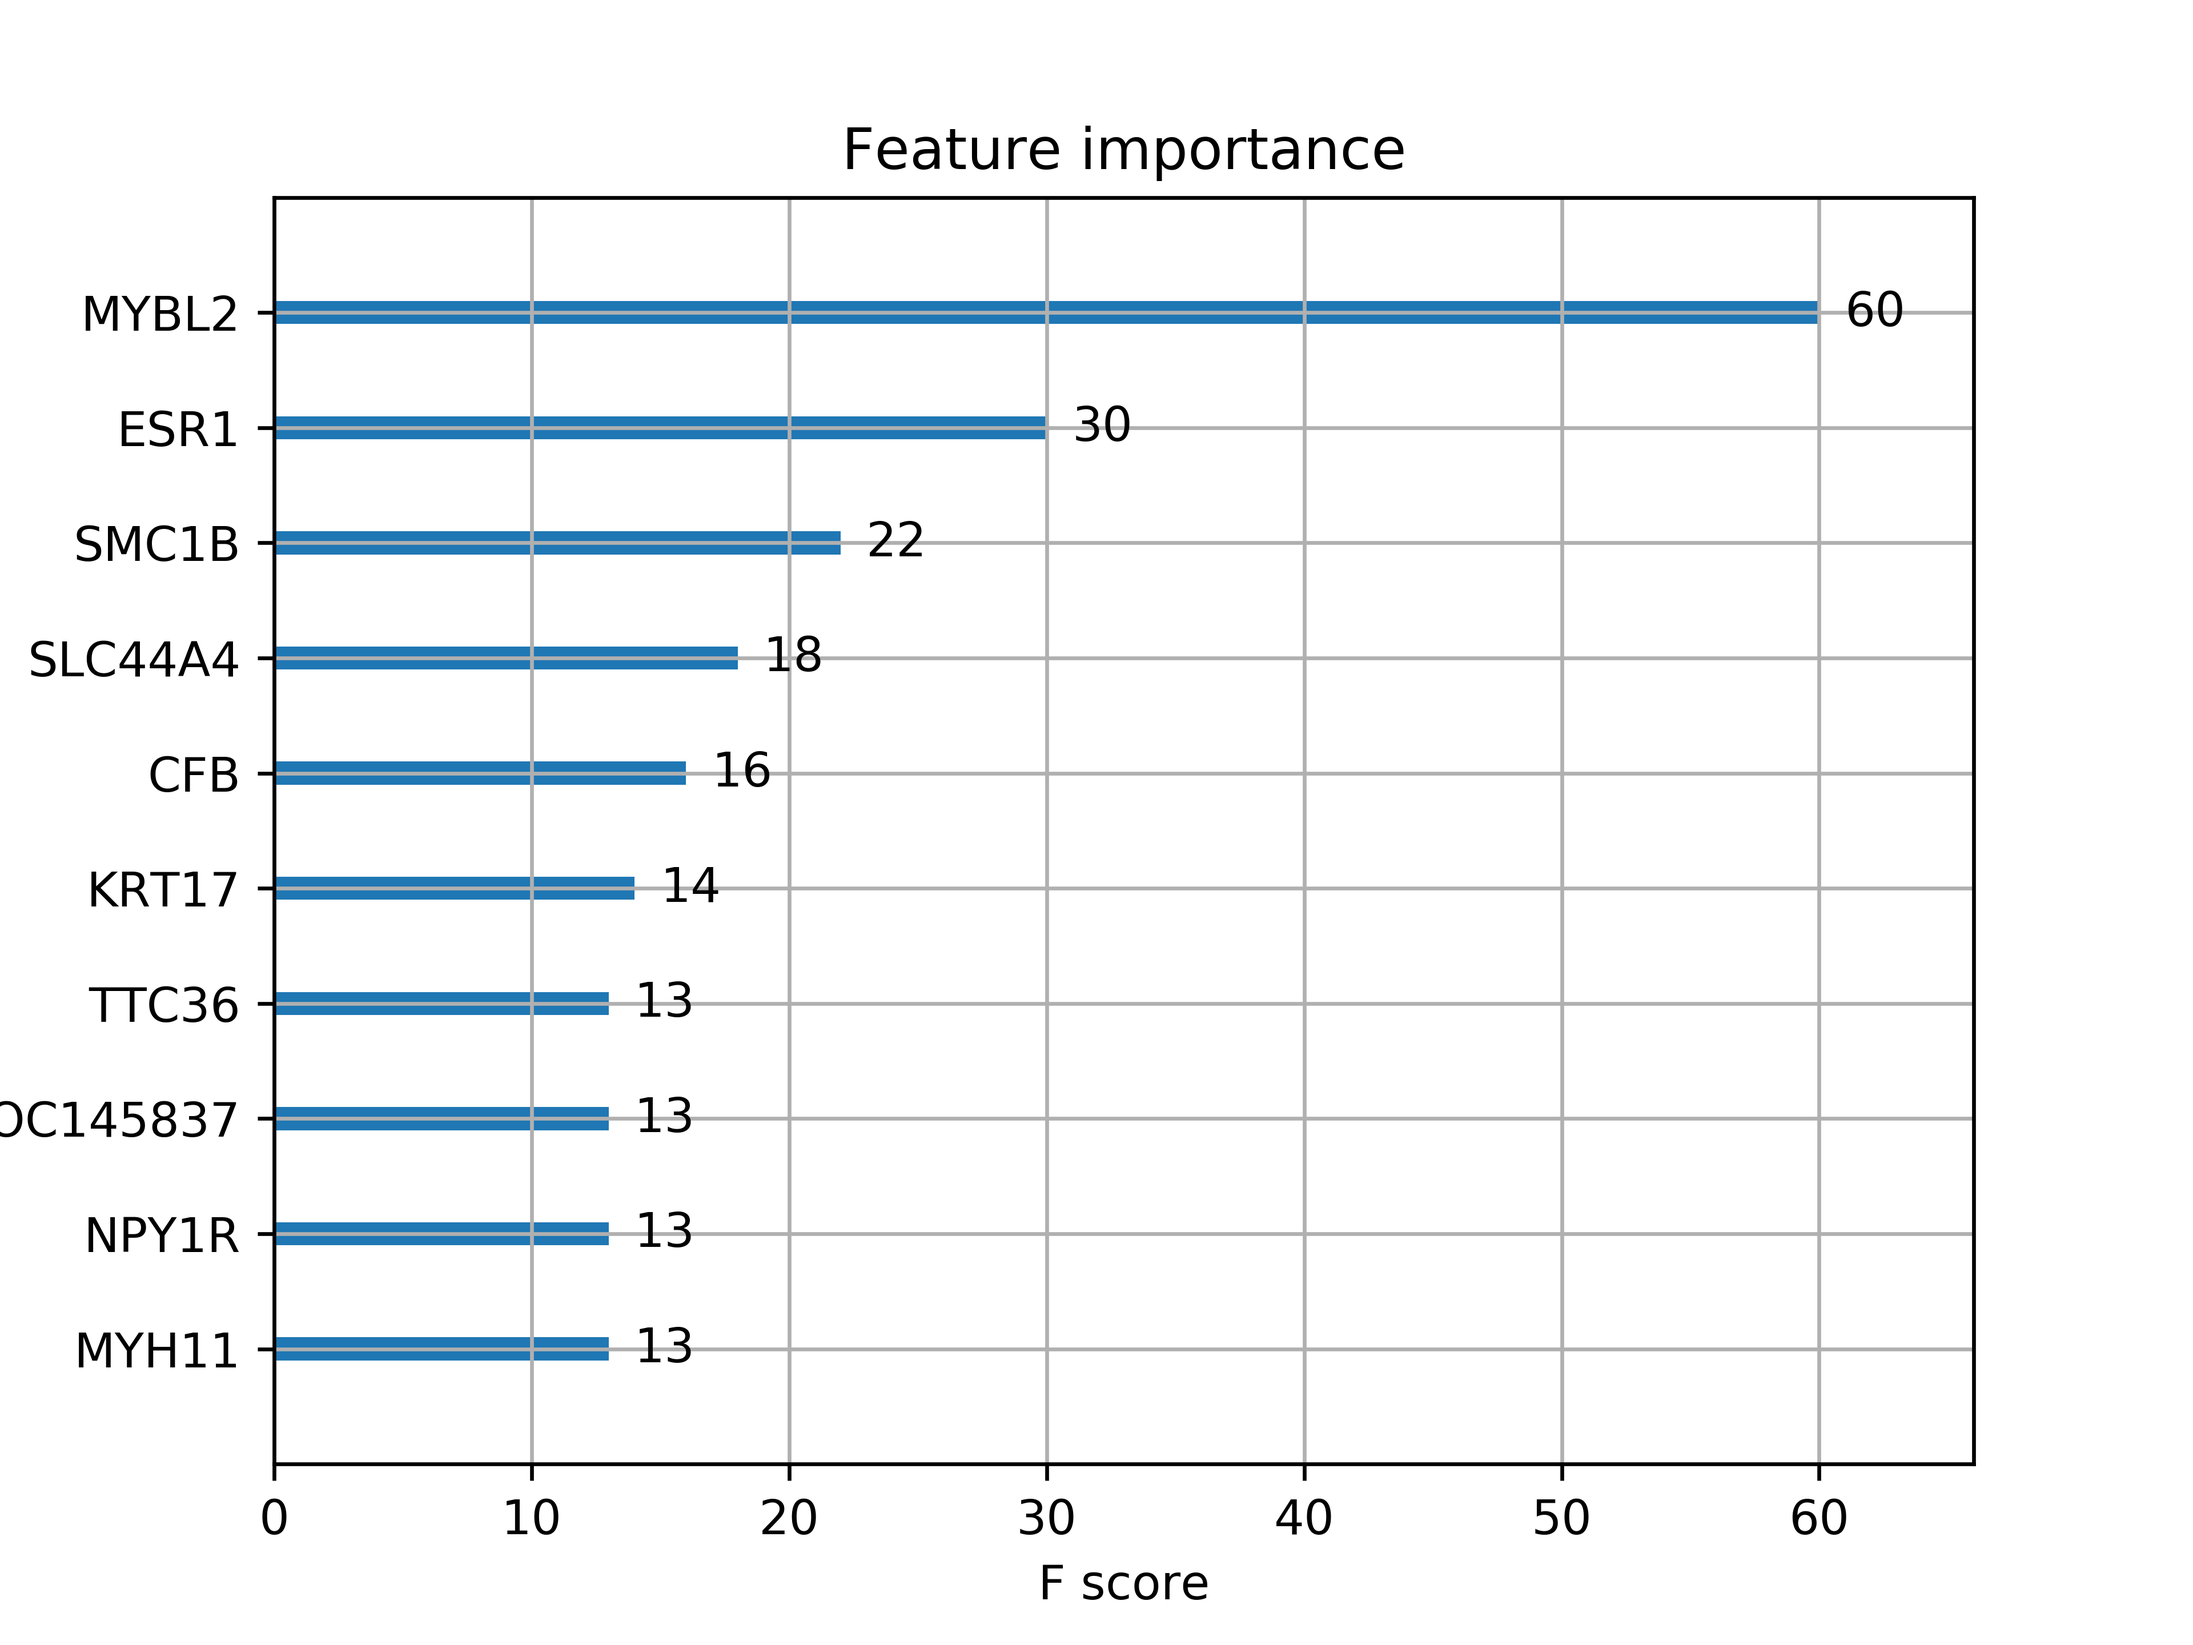
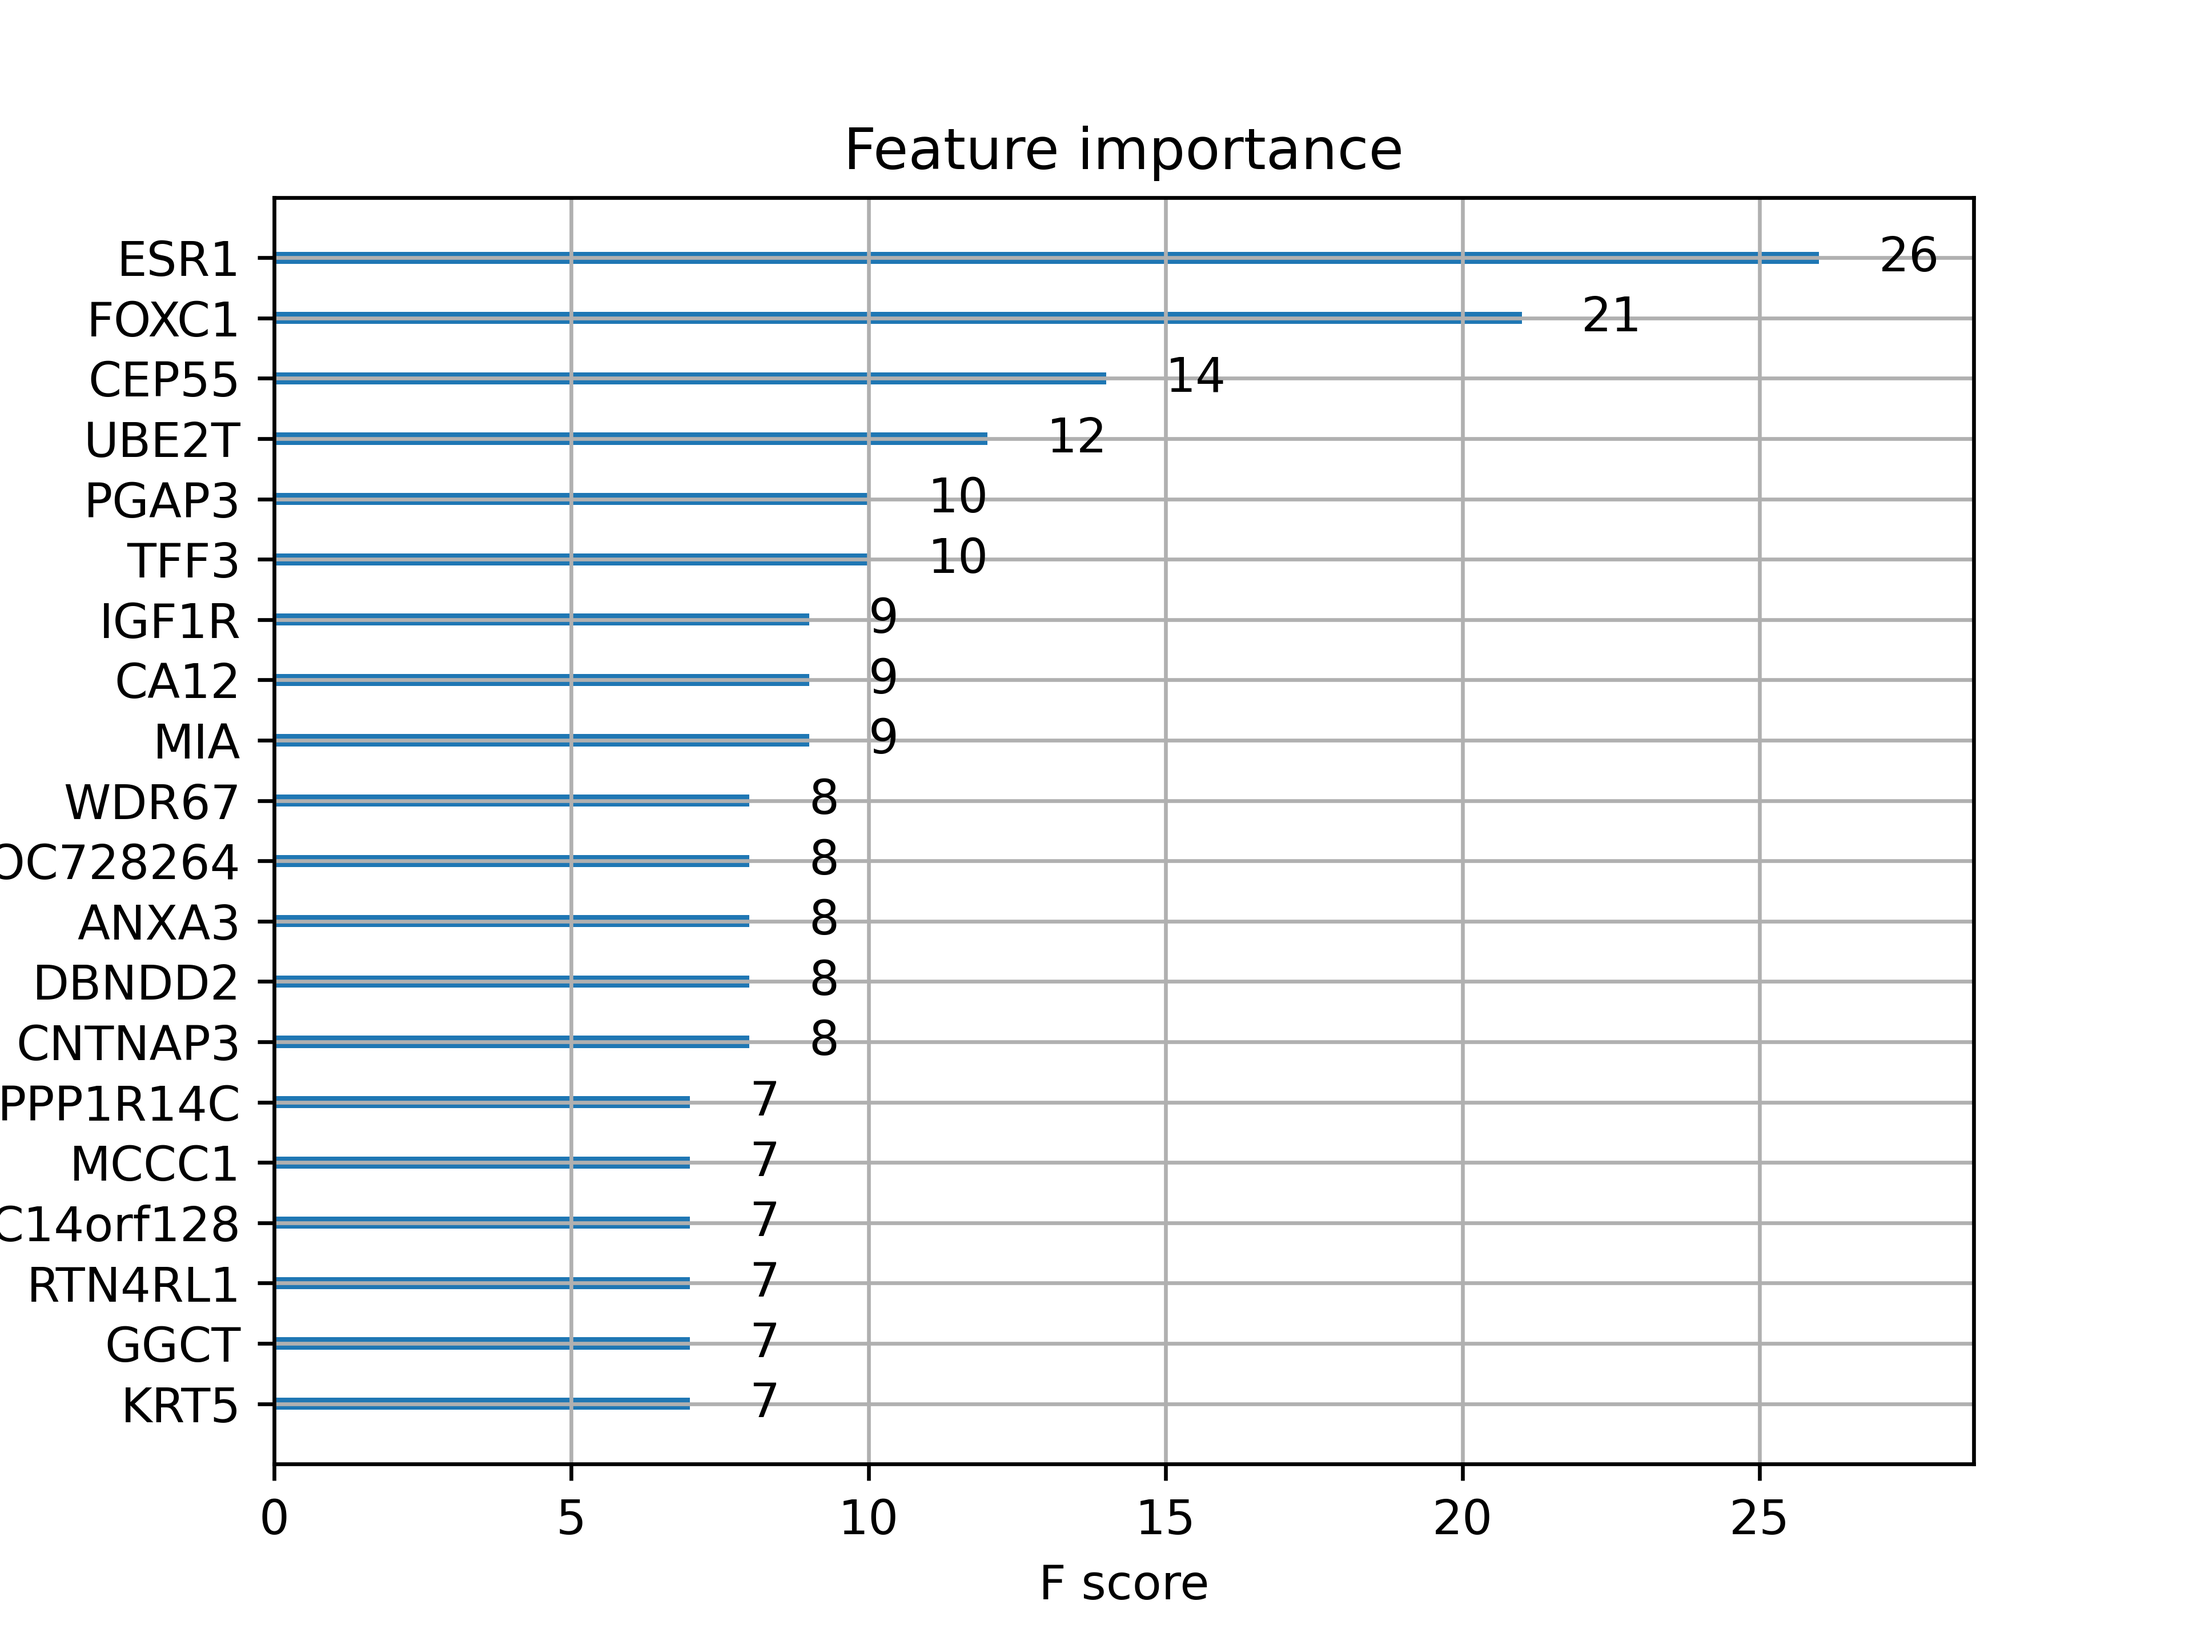
Filter 2.0

diff --git a/Kasperstuff/filter.py b/Kasperstuff/filter.py
@@ -5,8 +5,27 @@ import pandas as pd
 print("Load data")
 df = pd.read_csv("../HiSeq/master.csv",sep=';')
 
+'''
 # var() is variance
 variance = df.var().sort_values(ascending=False)
+''''''
+# https://en.wikipedia.org/wiki/Coefficient_of_variation
+# A more relative way to look at variance. 
+# For now we want to remove the same amount of genes, though we expect different genes to be removed with this method.
+# The genes with ONLY zeroes return NaN because we divide with zero. Does not matter as they are put last when sorting and thrown out.
+std = df.std()
+mean = df.mean()
+rsd = std/mean
+
+variance = rsd.sort_values(ascending=False)
+'''
+# Remove ID's and PAM50 labels. Already wrote the code earlier to add them back in, so this makes the np.log below easier.
+del df["PAM50_Label"]
+del df["sampleID"]
+# log(x+1) of every element in df
+np.log(df+1)
+
+
 
 # primitive way of finding the index where variance is <0.2 
 # Result: 17807
@@ -28,4 +47,4 @@ data = df.filter(varianceIndexed)
 
 
 df = pd.DataFrame(np.array(data), columns=varianceIndexed)
-df.to_csv("masterNew.csv", index=False, sep=";")
+df.to_csv("masterNew2.csv", index=False, sep=";")

diff --git a/GradientBoost/ga2.py b/GradientBoost/ga2.py
@@ -17,7 +17,10 @@ print("Load data")
 dt = pd.read_csv("../Kasperstuff/masterNew.csv",sep=";")
 print(dt.head())
 
-feature_cols = [dt.columns.values[x] for x in range(1,len(dt)-1)]
+print(len(dt))
+print(len(dt.columns))
+
+feature_cols = [dt.columns.values[x] for x in range(1,len(dt.columns)-1)]
 X = dt[feature_cols] # Features
 y = dt[dt.columns.values[-1]] # Target variable
 
@@ -65,8 +68,8 @@ print("Accuracy {}: {:.2f}".format(8, acc))
 #plot_tree(clf, label=y_labels) #, feature_names=feature_cols
 #plt.savefig("ga2_{}_{:.6f}.png".format(8, acc), dpi=600)
 
-#plot_importance(clf, max_num_features=10)
-#plt.savefig("ga2_{}_importance_table.png".format(8), dpi=600)
+plot_importance(clf, max_num_features=20)
+plt.savefig("ga2_{}_importance_table.png".format(8), dpi=600)
 
 if False:
 	# Test split
